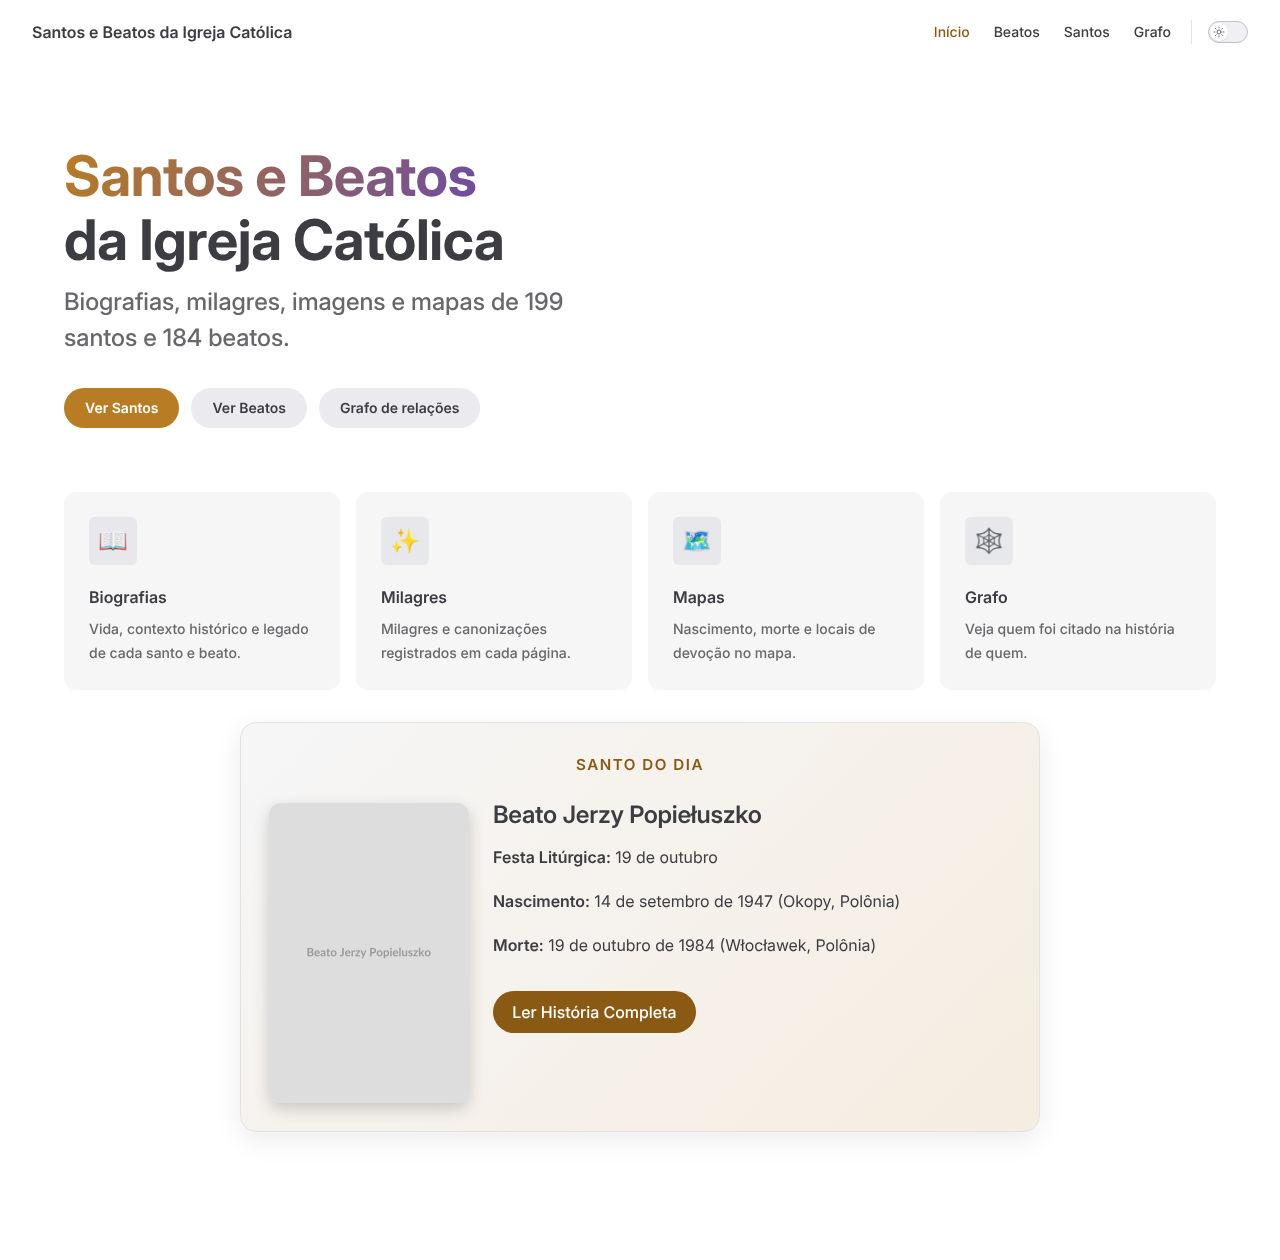
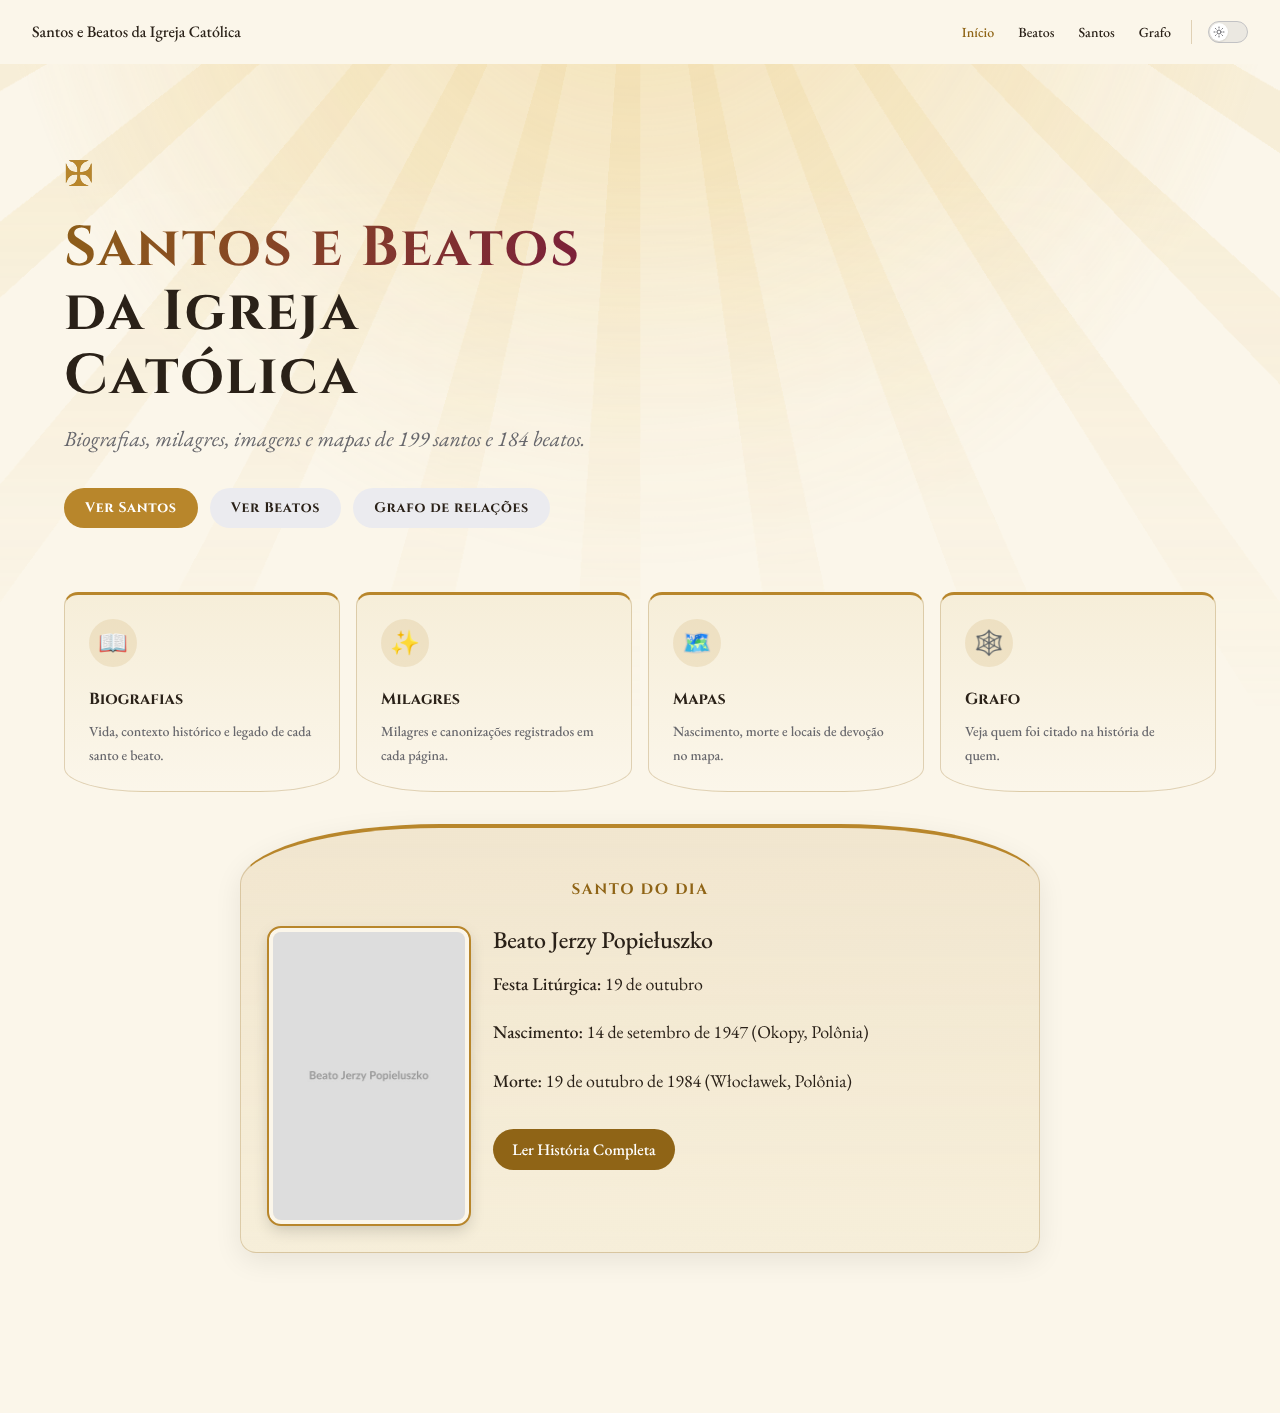
feat: tema sacro com raios de luz, tipografia Cinzel/Garamond e molduras douradas
Claude-Session: https://claude.ai/code/session_01ASMUN1qAPrrPLDD4hJVz5h

diff --git a/docs/.vitepress/theme/home.css b/docs/.vitepress/theme/home.css
@@ -1,0 +1,55 @@
+/* Home: halo dourado, raios de luz e cards de vitral */
+.VPHome { position: relative; overflow: hidden; }
+
+.VPHome::before {
+  content: '';
+  position: absolute;
+  inset: -20% -10% auto -10%;
+  height: 900px;
+  background:
+    radial-gradient(ellipse at 50% 0%, rgba(233, 196, 106, 0.55), transparent 60%),
+    repeating-conic-gradient(from 0deg at 50% -10%, rgba(233, 196, 106, 0.16) 0 4deg, transparent 4deg 12deg);
+  -webkit-mask-image: linear-gradient(#000 40%, transparent);
+  mask-image: linear-gradient(#000 40%, transparent);
+  pointer-events: none;
+  animation: sb-breathe 8s ease-in-out infinite alternate;
+}
+
+@keyframes sb-breathe { to { opacity: 0.65; transform: scale(1.04); } }
+
+@media (prefers-reduced-motion: reduce) { .VPHome::before { animation: none; } }
+
+.VPHero .name, .VPHero .text {
+  font-family: var(--sb-display);
+  letter-spacing: 0.04em;
+}
+
+.VPHero .name::before {
+  content: '✠';
+  display: block;
+  font-size: 2.2rem;
+  color: var(--sb-gold);
+  -webkit-text-fill-color: var(--sb-gold);
+  margin-bottom: 0.5rem;
+}
+
+.VPHero .tagline { font-style: italic; font-size: 1.35rem; }
+
+.VPButton { font-family: var(--sb-display); letter-spacing: 0.05em; }
+
+.VPFeature {
+  position: relative;
+  border: 1px solid var(--vp-c-divider) !important;
+  border-top: 3px solid var(--sb-gold) !important;
+  border-radius: 14px 14px 80px 80px / 14px 14px 24px 24px !important;
+  background: linear-gradient(180deg, var(--vp-c-bg-soft), var(--vp-c-bg)) !important;
+  transition: transform 0.25s, box-shadow 0.25s;
+}
+
+.VPFeature:hover {
+  transform: translateY(-5px);
+  box-shadow: 0 14px 34px rgba(184, 134, 43, 0.28);
+}
+
+.VPFeature .title { font-family: var(--sb-display); }
+.VPFeature .icon { background: var(--vp-c-brand-soft) !important; border-radius: 50% !important; }

diff --git a/docs/.vitepress/theme/doc.css b/docs/.vitepress/theme/doc.css
@@ -1,0 +1,55 @@
+/* Páginas de santos: tipografia de manuscrito e molduras */
+.vp-doc h1, .vp-doc h2, .vp-doc h3 { font-family: var(--sb-display); letter-spacing: 0.02em; }
+
+.vp-doc h1 { text-align: center; }
+
+.vp-doc h1::after {
+  content: '✠ ✦ ✠';
+  display: block;
+  margin-top: 0.6rem;
+  font-size: 1rem;
+  letter-spacing: 0.6em;
+  color: var(--sb-gold);
+}
+
+.vp-doc h2 { border-top: 1px solid var(--vp-c-divider); }
+
+.vp-doc p, .vp-doc li { font-size: 1.12rem; line-height: 1.8; }
+
+.vp-doc > div > p:nth-of-type(2)::first-letter {
+  font-family: var(--sb-display);
+  float: left;
+  font-size: 3.4rem;
+  line-height: 0.9;
+  padding: 0.3rem 0.5rem 0 0;
+  color: var(--sb-wine);
+}
+
+.dark .vp-doc > div > p:nth-of-type(2)::first-letter { color: var(--sb-gold-soft); }
+
+.vp-doc img {
+  display: block;
+  margin: 1rem auto;
+  max-height: 460px;
+  border-radius: 6px;
+  border: 6px solid var(--sb-parchment);
+  outline: 2px solid var(--sb-gold);
+  box-shadow: 0 10px 30px rgba(0, 0, 0, 0.25);
+}
+
+.vp-doc blockquote {
+  border-left: 4px solid var(--sb-gold);
+  background: var(--vp-c-brand-soft);
+  border-radius: 0 12px 12px 0;
+  font-style: italic;
+  font-size: 1.2rem;
+}
+
+.miracle-map-container {
+  height: 400px;
+  width: 100%;
+  margin: 1rem 0;
+  border-radius: 12px;
+  border: 2px solid var(--sb-gold);
+  z-index: 1; /* mantém o mapa abaixo da navbar */
+}

diff --git a/docs/.vitepress/theme/tokens.css b/docs/.vitepress/theme/tokens.css
@@ -1,0 +1,37 @@
+/* Paleta sacra: ouro, vinho e azul-noite de vitral */
+:root {
+  --sb-gold: #b8862b;
+  --sb-gold-soft: #e9c46a;
+  --sb-wine: #7b1e3a;
+  --sb-night: #14122b;
+  --sb-parchment: #fbf6ea;
+  --vp-font-family-base: 'EB Garamond', Georgia, serif;
+  --vp-font-family-mono: ui-monospace, monospace;
+  --sb-display: 'Cinzel', 'Times New Roman', serif;
+  --vp-c-brand-1: #8f6416;
+  --vp-c-brand-2: #a87820;
+  --vp-c-brand-3: #b8862b;
+  --vp-c-brand-soft: rgba(184, 134, 43, 0.14);
+  --vp-c-bg: var(--sb-parchment);
+  --vp-c-bg-alt: #f3ead2;
+  --vp-c-bg-soft: #f6eed9;
+  --vp-c-text-1: #2a2118;
+  --vp-c-divider: rgba(143, 100, 22, 0.25);
+  --vp-home-hero-name-color: transparent;
+  --vp-home-hero-name-background: linear-gradient(120deg, #8f6416, #7b1e3a);
+  --vp-home-hero-image-background-image: radial-gradient(circle, #e9c46a 0%, transparent 70%);
+  --vp-home-hero-image-filter: blur(60px);
+}
+
+.dark {
+  --vp-c-bg: #0f0e22;
+  --vp-c-bg-alt: #14122b;
+  --vp-c-bg-soft: #1b1838;
+  --vp-c-text-1: #f3ead2;
+  --vp-c-brand-1: #e9c46a;
+  --vp-c-brand-2: #d9ae4e;
+  --vp-c-brand-3: #b8862b;
+  --vp-c-brand-soft: rgba(233, 196, 106, 0.16);
+  --vp-c-divider: rgba(233, 196, 106, 0.22);
+  --vp-home-hero-name-background: linear-gradient(120deg, #e9c46a, #f4a6c0);
+}

diff --git a/docs/.vitepress/theme/style.css b/docs/.vitepress/theme/style.css
@@ -1,43 +1,4 @@
-/* docs/.vitepress/theme/style.css */
-
-:root {
-  --vp-c-brand-1: #8a5a14;
-  --vp-c-brand-2: #a06b1c;
-  --vp-c-brand-3: #b87d24;
-  --vp-c-brand-soft: rgba(184, 125, 36, 0.14);
-  --vp-home-hero-name-color: transparent;
-  --vp-home-hero-name-background: linear-gradient(120deg, #b87d24, #6d4c9f);
-}
-
-.dark {
-  --vp-c-brand-1: #e0b062;
-  --vp-c-brand-2: #d19f4a;
-  --vp-c-brand-3: #b87d24;
-  --vp-home-hero-name-background: linear-gradient(120deg, #e0b062, #a78bd4);
-}
-
-.VPHome .VPFeatures .VPFeature {
-  transition: transform 0.2s, box-shadow 0.2s;
-}
-
-.VPHome .VPFeatures .VPFeature:hover {
-  transform: translateY(-3px);
-  box-shadow: 0 8px 24px rgba(0, 0, 0, 0.12);
-}
-
-.vp-doc img {
-  border-radius: 10px;
-}
-
-.vp-doc h1 {
-  letter-spacing: -0.01em;
-}
-
-.miracle-map-container {
-  height: 400px;
-  width: 100%;
-  margin-top: 1rem;
-  margin-bottom: 1rem;
-  border-radius: 10px;
-  z-index: 1; /* Ensure map doesn't cover navbar if issue arises */
-}
+@import './fonts.css';
+@import './tokens.css';
+@import './home.css';
+@import './doc.css';

diff --git a/docs/.vitepress/components/SaintOfTheDay.vue b/docs/.vitepress/components/SaintOfTheDay.vue
@@ -99,10 +99,11 @@ onMounted(() => {
 .saint-of-day {
   max-width: 800px;
   margin: 2rem auto;
-  padding: 1.75rem;
+  padding: 3rem 1.75rem 1.75rem;
   border: 1px solid var(--vp-c-divider);
-  border-radius: 16px;
-  background: linear-gradient(135deg, var(--vp-c-bg-soft), var(--vp-c-brand-soft));
+  border-radius: 200px 200px 16px 16px / 60px 60px 16px 16px;
+  border-top: 4px solid var(--sb-gold);
+  background: linear-gradient(180deg, var(--vp-c-brand-soft), var(--vp-c-bg-soft));
   box-shadow: 0 8px 28px rgba(0, 0, 0, 0.08);
 }
 
@@ -113,6 +114,7 @@ onMounted(() => {
   text-transform: uppercase;
   letter-spacing: 0.1em;
   font-size: 0.95rem;
+  font-family: var(--sb-display);
   margin-bottom: 1.5rem;
 }
 
@@ -137,6 +139,9 @@ onMounted(() => {
 }
 
 .image-container img {
+  border: 4px solid var(--sb-parchment);
+  outline: 2px solid var(--sb-gold);
+  margin: 0;
   width: 100%;
   height: auto;
   border-radius: 12px;

diff --git a/docs/.vitepress/config.js b/docs/.vitepress/config.js
@@ -8,6 +8,9 @@ export default {
     }
   },
   themeConfig: {
+    outline: { label: 'Nesta página' },
+    docFooter: { prev: 'Anterior', next: 'Próximo' },
+    darkModeSwitchLabel: 'Tema',
     nav: [
       { text: 'Início', link: '/' },
       { text: 'Beatos', link: '/beatos/' },

diff --git a/docs/.vitepress/theme/fonts.css b/docs/.vitepress/theme/fonts.css
@@ -1,0 +1,1 @@
+@import url('https://fonts.googleapis.com/css2?family=Cinzel:wght@500;700&family=EB+Garamond:ital,wght@0,400;0,500;1,400&display=swap');
